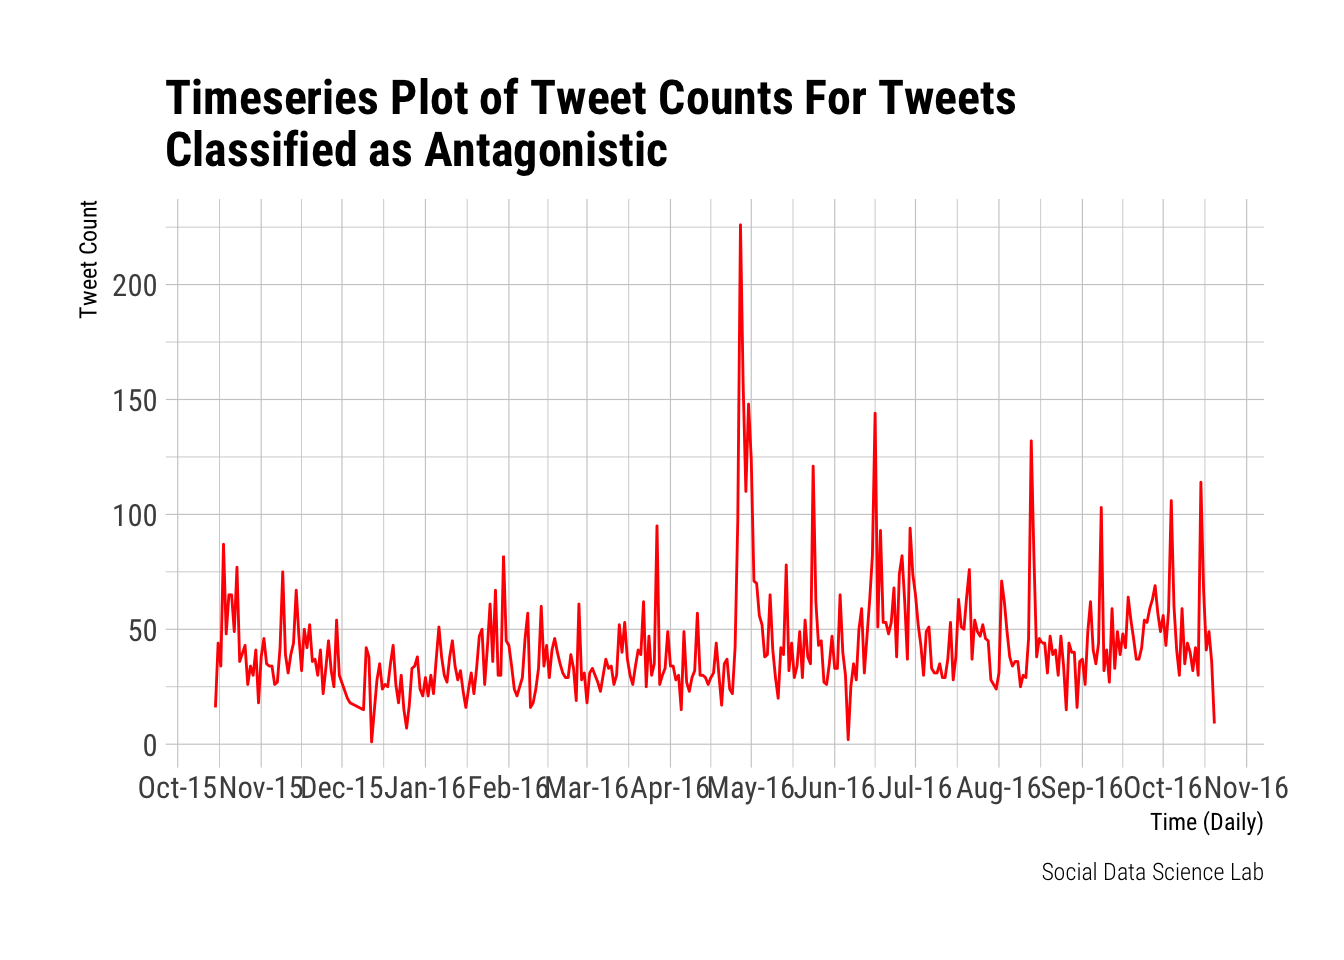
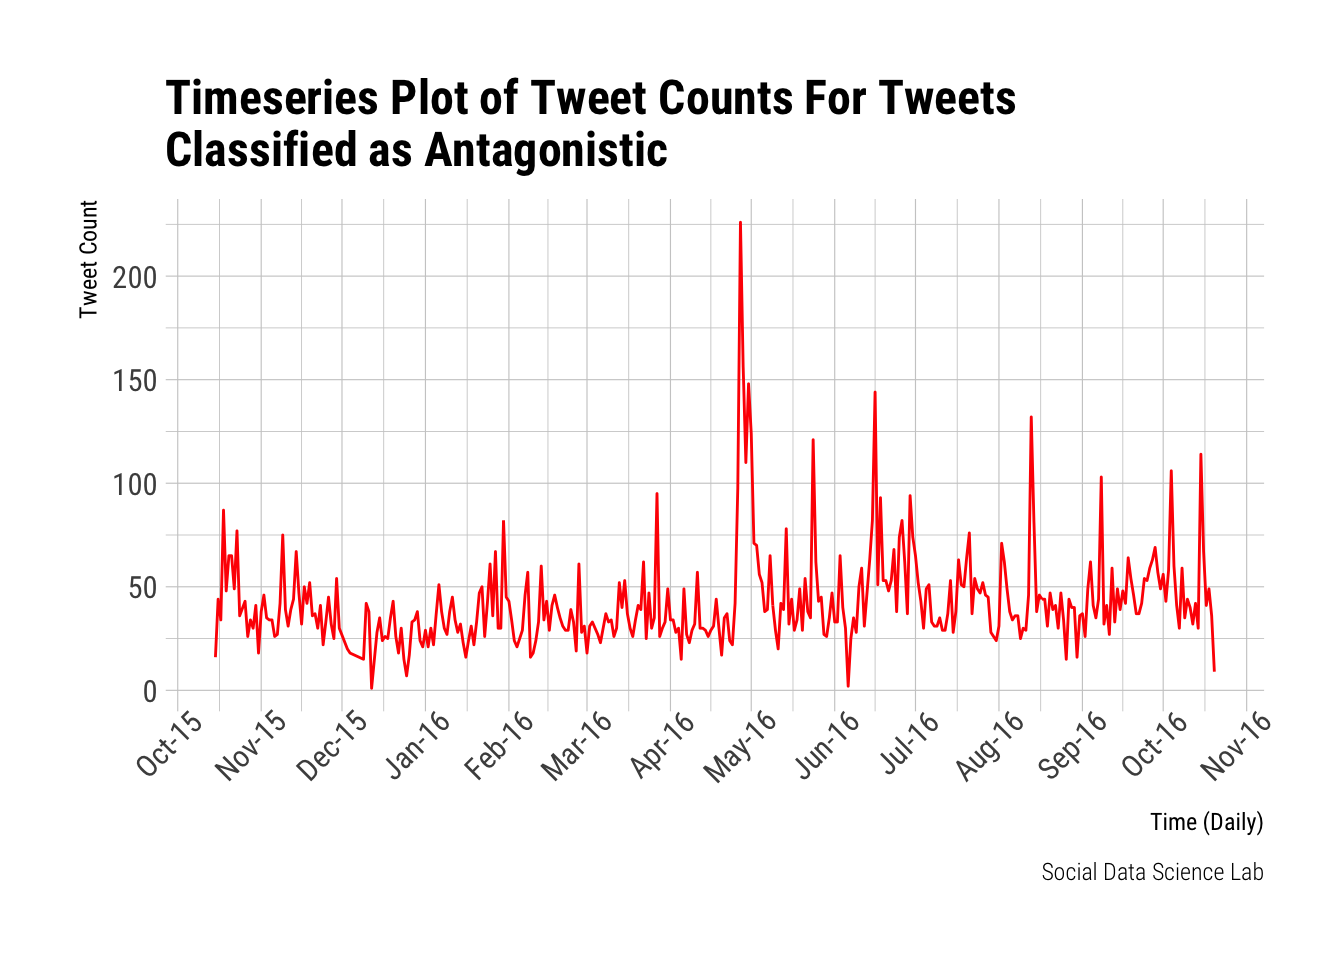
Build site.

diff --git a/docs/antag_monthly_means.html b/docs/antag_monthly_means.html
@@ -319,7 +319,7 @@ shared across the workflowr files. -->
 <p><strong>Last updated:</strong> 2017-11-10</p>
 <!-- Insert the code version (Git commit SHA1) if Git repository exists and R
  package git2r is installed -->
-<p><strong>Code version:</strong> ee6d7ba</p>
+<p><strong>Code version:</strong> bdfe5f2</p>
 <!-- Add your analysis here -->
 <div id="data-wrangling" class="section level2">
 <h2>Data Wrangling</h2>
@@ -356,10 +356,12 @@ colnames(ts_sum_df_antagonistic)=c(&#39;date&#39;,&#39;sum&#39;)</code></pre>
            #subtitle = &quot;Graph 2&quot;, 
            caption = &quot;Social Data Science Lab&quot;) +
      theme_ipsum_rc()+
-     scale_x_date(date_breaks = &quot;1 month&quot;,date_labels = (&quot;%b-%y&quot;))
+     scale_x_date(date_breaks = &quot;1 month&quot;,date_labels = (&quot;%b-%y&quot;))+
+  theme(axis.text.x = element_text(angle = 45, hjust = 0.8))
+
 
 b</code></pre>
-<p><img src="figure/antag_monthly_means.rmd/unnamed-chunk-2-1.png" width="8" height="7" style="display: block; margin: auto;" /></p>
+<p><img src="figure/antag_monthly_means.rmd/unnamed-chunk-2-1.png" width="672" style="display: block; margin: auto;" /></p>
 </div>
 <div id="results" class="section level2">
 <h2>Results</h2>
